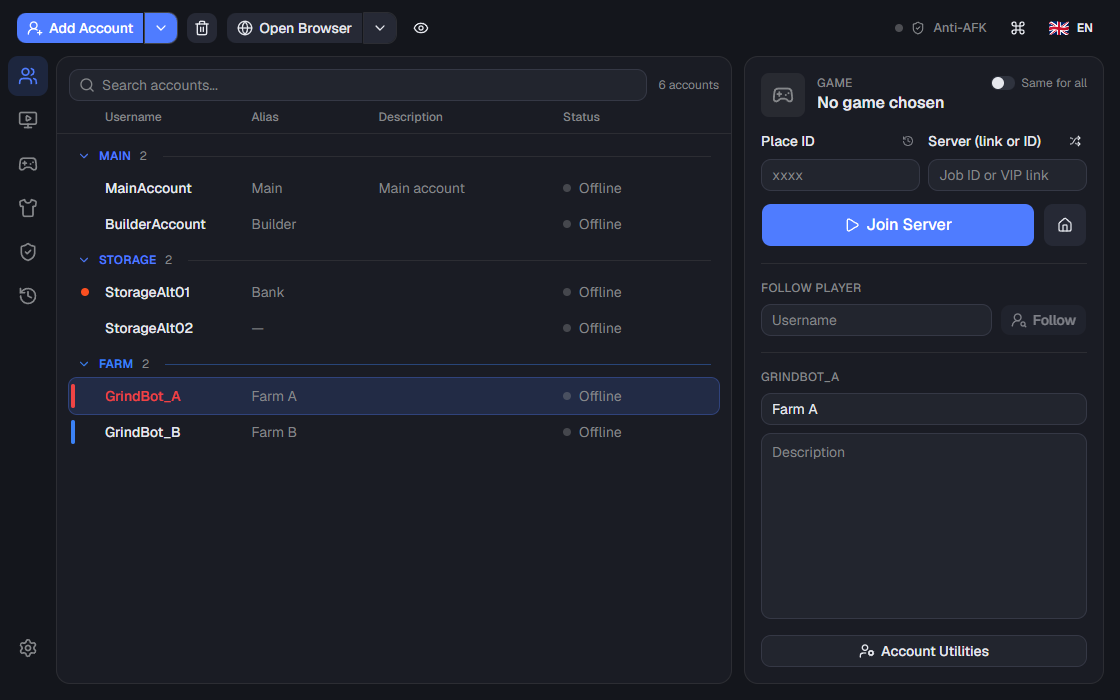
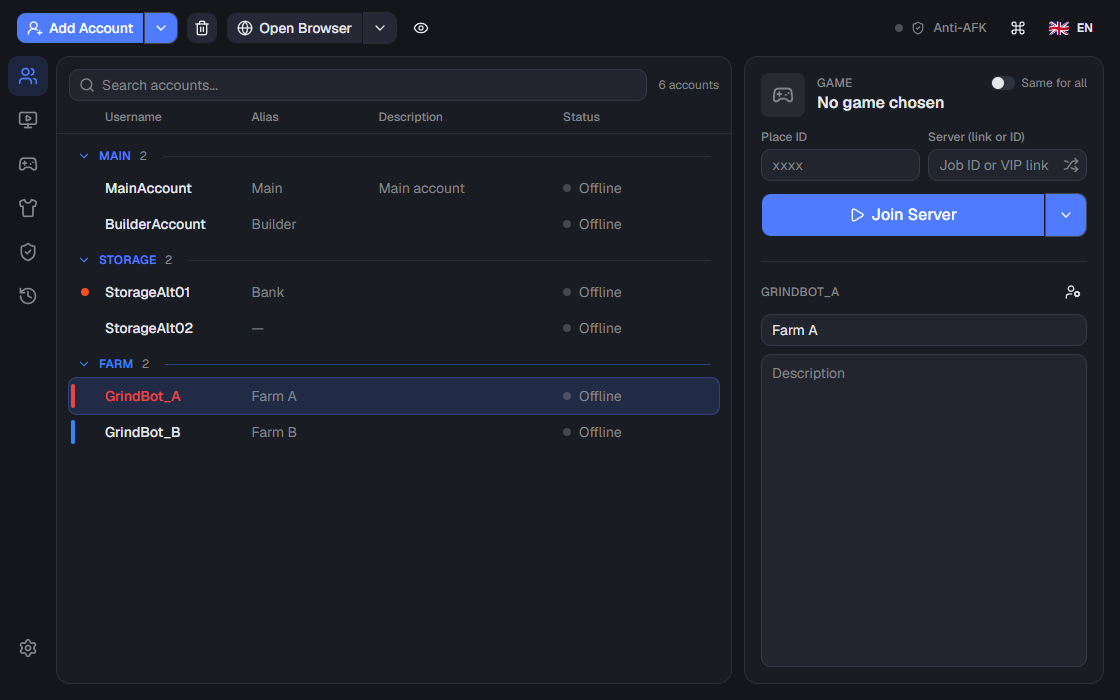
4.1.30: a simpler side panel
Follow a player and Open Roblox home are in the Join Server button's menu (the Follow section and the house button are gone), recent games and shuffle sit inside their boxes with smaller labels, Account Utilities is an icon next to the account's name, no separators. The recent games button only shows with recent games (a disabled one greyed out the whole box). Tests run in a fresh folder each time (a closed copy's WebView2 kept the old one locked), screenshots in target/test-run/ui-screenshots.

diff --git a/ui/src/components/sidebar/GamePanel.tsx b/ui/src/components/sidebar/GamePanel.tsx
@@ -1,16 +1,18 @@
 /** Game section: place (with recent games), server, shuffle and the big Join button. What's typed is saved by itself,
  *  into the selected accounts (each has its own game) or, with "Same for all", once for every account */
 
-import { History, House, Loader2, Play, Shuffle, X } from 'lucide-react'
+import { ChevronDown, History, House, Loader2, Play, Shuffle, UserRoundSearch, X } from 'lucide-react'
 import { useEffect, useRef, useState } from 'react'
 import { Button } from '@/components/ui/button'
-import { Input } from '@/components/ui/input'
+import { DropdownMenu, DropdownMenuContent, DropdownMenuItem, DropdownMenuTrigger } from '@/components/ui/dropdown-menu'
+import { InputGroup, InputGroupAddon, InputGroupButton, InputGroupInput } from '@/components/ui/input-group'
 import { Label } from '@/components/ui/label'
 import { Popover, PopoverContent, PopoverTrigger } from '@/components/ui/popover'
 import { Progress } from '@/components/ui/progress'
 import { Switch } from '@/components/ui/switch'
 import { Tooltip, TooltipContent, TooltipTrigger } from '@/components/ui/tooltip'
 import { GameIcon } from '@/components/common/GameTile'
+import { useDialogs } from '@/components/dialogs/DialogHost'
 import { useActions } from '@/hooks/useActions'
 import { api, on } from '@/lib/api'
 import { useT } from '@/lib/i18n'
@@ -31,7 +33,8 @@ function fromLink(text: string): { place?: string; job?: string } | null {
 export function GamePanel() {
   const t = useT()
   const actions = useActions()
-  const { place, setPlace, job, setJob, selected, launching, setting, updateSetting } = useStore()
+  const { place, setPlace, job, setJob, selected, launching, setting, updateSetting, boot } = useStore()
+  const dialogs = useDialogs()
   const [info, setInfo] = useState<{ name: string; icon?: string } | null>(null)
   const [recent, setRecent] = useState<Game[]>([])
   const [shuffle, setShuffle] = useState(setting('General', 'ShuffleJobId') === 'true')
@@ -99,6 +102,12 @@ export function GamePanel() {
     void updateSetting('General', 'SavedPlaceId', place)
   }
 
+  // following a player: from the Join menu, the username asked then
+  const follow = async () => {
+    const name = await dialogs.prompt({ title: 'Follow a player', label: 'Their username: the selected accounts join the server they are in.', defaultValue: setting('General', 'SavedFollowUser') || boot.followUser, confirm: 'Follow' })
+    if (name?.trim()) await actions.follow(name.trim())
+  }
+
   const recentGame = recent.find((g) => String(g.placeId) === place)
   // a share link in the server box decides the game (Roblox tells which when joining)
   const shareLink = isShareLink(job)
@@ -127,14 +136,18 @@ export function GamePanel() {
       </div>
 
       <div className="grid grid-cols-2 gap-2">
-        <div className="grid gap-1.5">
-          <div className="flex items-center justify-between">
-            <Label htmlFor="place">{t('Place ID')}</Label>
+        <div className="grid gap-1">
+          <Label htmlFor="place" className="text-xs text-muted-foreground">{t('Place ID')}</Label>
+          <InputGroup>
+            <InputGroupInput id="place" value={place} onChange={(e) => choose(e.target.value)} onPaste={paste} onFocus={(e) => e.target.select()} placeholder="xxxx" />
+            {/* only with recent games: a disabled button would grey out the whole box */}
+            {recent.length > 0 && (
+            <InputGroupAddon align="inline-end">
             <Popover>
               <PopoverTrigger asChild>
-                <Button variant="ghost" size="icon-xs" aria-label={t('Recent games')} disabled={recent.length === 0}>
+                <InputGroupButton size="icon-xs" aria-label={t('Recent games')}>
                   <History />
-                </Button>
+                </InputGroupButton>
               </PopoverTrigger>
               <PopoverContent align="start" className="w-72 p-1">
                 <div className="px-2 py-1.5 text-xs font-medium text-muted-foreground">{t('Recent games')}</div>
@@ -146,23 +159,26 @@ export function GamePanel() {
                 ))}
               </PopoverContent>
             </Popover>
-          </div>
-          <Input id="place" value={place} onChange={(e) => choose(e.target.value)} onPaste={paste} onFocus={(e) => e.target.select()} placeholder="xxxx" />
+            </InputGroupAddon>
+            )}
+          </InputGroup>
         </div>
 
-        <div className="grid gap-1.5">
-          <div className="flex items-center justify-between">
-            <Label htmlFor="job">{t('Server (link or ID)')}</Label>
-            <Tooltip>
-              <TooltipTrigger asChild>
-                <Button variant="ghost" size="icon-xs" className={shuffle ? 'text-emerald-500' : ''} aria-pressed={shuffle} aria-label={t('Shuffle JobId')} onClick={() => setShuffle(!shuffle)}>
-                  <Shuffle />
-                </Button>
-              </TooltipTrigger>
-              <TooltipContent className="max-w-60">{t(shuffle ? 'Shuffle is on: every join picks a random server' : 'Shuffle: pick a random server for every join')}</TooltipContent>
-            </Tooltip>
-          </div>
-          <Input id="job" value={job} onChange={(e) => chooseJob(e.target.value)} onPaste={paste} onFocus={(e) => e.target.select()} placeholder={t('Job ID or VIP link')} />
+        <div className="grid gap-1">
+          <Label htmlFor="job" className="text-xs text-muted-foreground">{t('Server (link or ID)')}</Label>
+          <InputGroup>
+            <InputGroupInput id="job" value={job} onChange={(e) => chooseJob(e.target.value)} onPaste={paste} onFocus={(e) => e.target.select()} placeholder={t('Job ID or VIP link')} />
+            <InputGroupAddon align="inline-end">
+              <Tooltip>
+                <TooltipTrigger asChild>
+                  <InputGroupButton size="icon-xs" className={shuffle ? 'text-emerald-500' : ''} aria-pressed={shuffle} aria-label={t('Shuffle JobId')} onClick={() => setShuffle(!shuffle)}>
+                    <Shuffle />
+                  </InputGroupButton>
+                </TooltipTrigger>
+                <TooltipContent className="max-w-60">{shuffle ? t('Shuffle is on: every join picks a random server') : t('Shuffle: pick a random server for every join')}</TooltipContent>
+              </Tooltip>
+            </InputGroupAddon>
+          </InputGroup>
         </div>
       </div>
 
@@ -177,19 +193,22 @@ export function GamePanel() {
           <Progress value={(launching.done / launching.total) * 100} className="h-1.5" />
         </div>
       ) : (
-        <div className="flex gap-2">
-          <Button size="lg" className="h-11 flex-1 text-base" disabled={selected.length === 0 || joining} onClick={join}>
+        <div className="flex">
+          <Button size="lg" className="h-11 flex-1 rounded-r-none text-base" disabled={selected.length === 0 || joining} onClick={join}>
             {joining ? <Loader2 className="animate-spin" /> : <Play />}
             {selected.length > 1 ? t('Join Server ({0})', selected.length) : t('Join Server')}
           </Button>
-          <Tooltip>
-            <TooltipTrigger asChild>
-              <Button size="lg" variant="secondary" className="h-11 w-11 px-0" aria-label={t('Open Roblox home')} disabled={selected.length === 0} onClick={actions.openHome}>
-                <House />
+          <DropdownMenu>
+            <DropdownMenuTrigger asChild>
+              <Button size="lg" className="h-11 rounded-l-none border-l border-primary-foreground/20 px-3" disabled={selected.length === 0} aria-label={t('More ways to join')}>
+                <ChevronDown />
               </Button>
-            </TooltipTrigger>
-            <TooltipContent>{t('Open Roblox home')}</TooltipContent>
-          </Tooltip>
+            </DropdownMenuTrigger>
+            <DropdownMenuContent align="end" className="w-56">
+              <DropdownMenuItem onClick={follow}><UserRoundSearch /> {t('Follow a player…')}</DropdownMenuItem>
+              <DropdownMenuItem onClick={actions.openHome}><House /> {t('Open Roblox home')}</DropdownMenuItem>
+            </DropdownMenuContent>
+          </DropdownMenu>
         </div>
       )}
     </section>

diff --git a/ui/src/components/sidebar/Sidebar.tsx b/ui/src/components/sidebar/Sidebar.tsx
@@ -1,13 +1,13 @@
-/** Right side: the game, following a player, the selected account and its utilities */
+/** Right side: the game (following a player is in the Join menu), then the selected account: its alias,
+ *  description and utilities */
 
-import { Check, UserRoundSearch, UserCog } from 'lucide-react'
+import { Check, UserCog } from 'lucide-react'
 import { useEffect, useRef, useState } from 'react'
 import { Button } from '@/components/ui/button'
 import { Input } from '@/components/ui/input'
-import { Separator } from '@/components/ui/separator'
+import { Tooltip, TooltipContent, TooltipTrigger } from '@/components/ui/tooltip'
 import { Textarea } from '@/components/ui/textarea'
 import { GamePanel } from '@/components/sidebar/GamePanel'
-import { useActions } from '@/hooks/useActions'
 import { api } from '@/lib/api'
 import { useT } from '@/lib/i18n'
 import { notifier } from '@/lib/notify'
@@ -22,9 +22,7 @@ type Field = 'alias' | 'description'
 export function Sidebar() {
   const t = useT()
   const notify = notifier(t)
-  const actions = useActions()
-  const { selected, selectedAccounts, boot, setPanel } = useStore()
-  const [follow, setFollow] = useState(boot.followUser)
+  const { selected, selectedAccounts, setPanel } = useStore()
   const [alias, setAlias] = useState('')
   const [description, setDescription] = useState('')
   const [saved, setSaved] = useState(false)
@@ -80,36 +78,29 @@ export function Sidebar() {
     <aside className="flex h-full min-h-0 flex-col gap-4 overflow-y-auto p-4">
       <GamePanel />
 
-      <Separator />
-
-      <section className="grid gap-2">
-        <Heading>{t('FOLLOW PLAYER')}</Heading>
-        <form className="flex gap-2" onSubmit={(e) => { e.preventDefault(); actions.follow(follow) }}>
-          <Input value={follow} onChange={(e) => setFollow(e.target.value)} placeholder={t('Username')} />
-          <Button type="submit" variant="secondary" disabled={none || !follow.trim()}>
-            <UserRoundSearch /> {t('Follow')}
-          </Button>
-        </form>
-      </section>
-
-      <Separator />
-
-      <section className="grid flex-1 grid-rows-[auto_auto_minmax(5rem,1fr)] gap-2">
+      <section className="mt-2 grid flex-1 grid-rows-[auto_auto_minmax(5rem,1fr)] gap-2 border-t pt-4">
         <div className="flex items-center justify-between gap-2">
           <Heading>{none ? t('SELECTED ACCOUNT') : one ? one.username : t('{0} selected', selectedAccounts.length)}</Heading>
-          {saved && (
-            <span className="flex items-center gap-1 text-xs text-muted-foreground" data-testid="saved">
-              <Check className="size-3.5 text-emerald-500" /> {t('Saved')}
-            </span>
-          )}
+          <div className="flex items-center gap-1">
+            {saved && (
+              <span className="flex items-center gap-1 text-xs text-muted-foreground" data-testid="saved">
+                <Check className="size-3.5 text-emerald-500" /> {t('Saved')}
+              </span>
+            )}
+            <Tooltip>
+              <TooltipTrigger asChild>
+                <Button variant="ghost" size="icon-sm" aria-label={t('Account Utilities')} disabled={selectedAccounts.length !== 1} onClick={() => setPanel('accountUtils')}>
+                  <UserCog />
+                </Button>
+              </TooltipTrigger>
+              <TooltipContent>{t('Account Utilities')}</TooltipContent>
+            </Tooltip>
+          </div>
         </div>
         <Input value={alias} maxLength={50} disabled={none} onChange={(e) => change('alias', e.target.value)} placeholder={t('Alias')} />
         <Textarea className="min-h-20 resize-none" value={description} maxLength={5000} disabled={none} onChange={(e) => change('description', e.target.value)} placeholder={t('Description')} />
       </section>
 
-      <Button variant="outline" disabled={selectedAccounts.length !== 1} onClick={() => setPanel('accountUtils')}>
-        <UserCog /> {t('Account Utilities')}
-      </Button>
     </aside>
   )
 }

diff --git a/README.md b/README.md
@@ -377,7 +377,8 @@ The account needs *Who can invite me to private servers* set to Everyone in its 
 | Languages | English, Português (Portugal), Español, Français, Deutsch | Click the flag button in the top right |
 | Instances | Every Roblox open on this PC with its account, game and server: bring one to the front, close it, send the selected accounts to its server (a private one too), choose which ones Anti-AFK keeps active | The `Instances` page |
 | Session history | Games and servers joined, lost connections, rejoins and presence changes of each account, by day, filtered by account, exported as CSV (kept on this PC only, can be turned off) | The `History` page |
-| Roblox home | Open the Roblox app signed in as the account, without a game | The house button next to `Join Server`, or right click an account |
+| Roblox home | Open the Roblox app signed in as the account, without a game | The arrow next to `Join Server`, or right click an account |
+| Follow a player | The selected accounts join the server a player is in | The arrow next to `Join Server` > `Follow a player` |
 | Window names | Each Roblox window the app opens shows its account (and alias) in the title | `Settings` > `General` |
 | Hide from captures | Screenshots, recordings and screen sharing leave the app's window out | `Settings` > `General` |
 | Account Search | Find an account by username, alias, description or group | Type in the search box above the list, or press `Ctrl+F` |
@@ -386,7 +387,7 @@ The account needs *Who can invite me to private servers* set to Everyone in its 
 | Load Region | See where a server is and get an accurate ping | Right click a server in the server list, then click `Load Region` **(requires a valid account to be selected)** |
 | [Join Small Servers](https://youtu.be/Red66cV6vVI) | Join small servers in games that use a lobby place to teleport you | Put the real game's Place ID next to `Refresh` in the server list, refresh, then right click a server and click `Join Game` |
 | Player Finder | Find a player even with their follows off, as long as you know their game | In the server list, type the username and click search |
-| Account Utilities | Change an account's password, email, display name, follow privacy, add friends, block, sign out other sessions | Click `Account Utilities` **(requires a valid account to be selected)** |
+| Account Utilities | Change an account's password, email, display name, follow privacy, add friends, block, sign out other sessions | The person icon next to the selected account's name **(requires a valid account to be selected)** |
 | Account Sorting | Order accounts the way you like | Drag and drop an account in the list, or `Sort Alphabetically` |
 | Account Grouping | Put accounts in groups, drag them between groups, rename a group | Right click an account, `Groups`, `Move Account To`; right click a group's header to rename it |
 | Group Sorting | Order groups by giving them a number | Name a group with a number from 0-999 in front (ex. `1Main`, `007 Bank`), the number is hidden afterwards |
